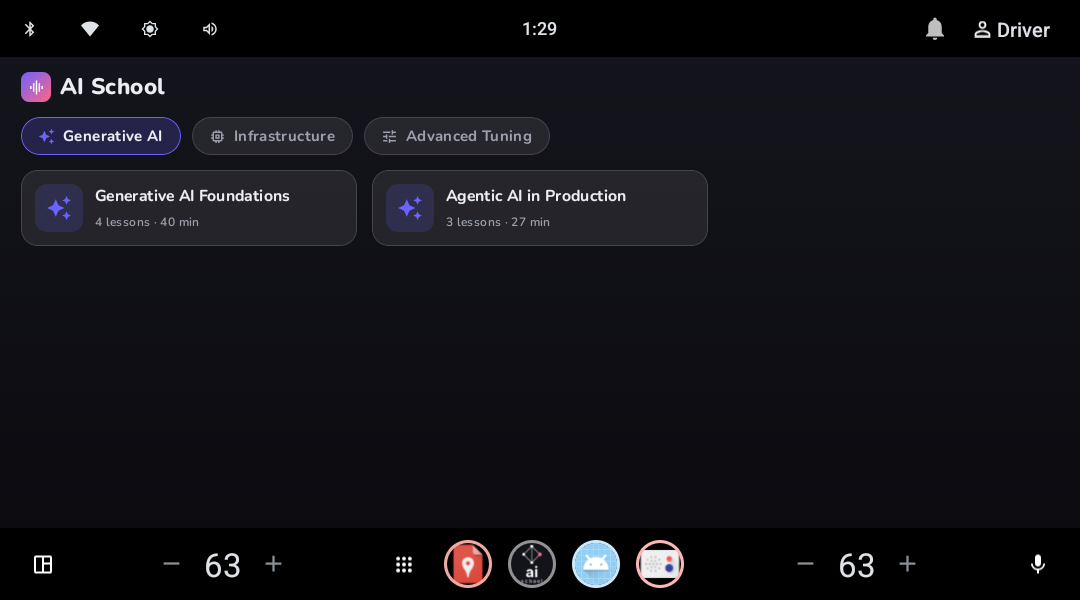
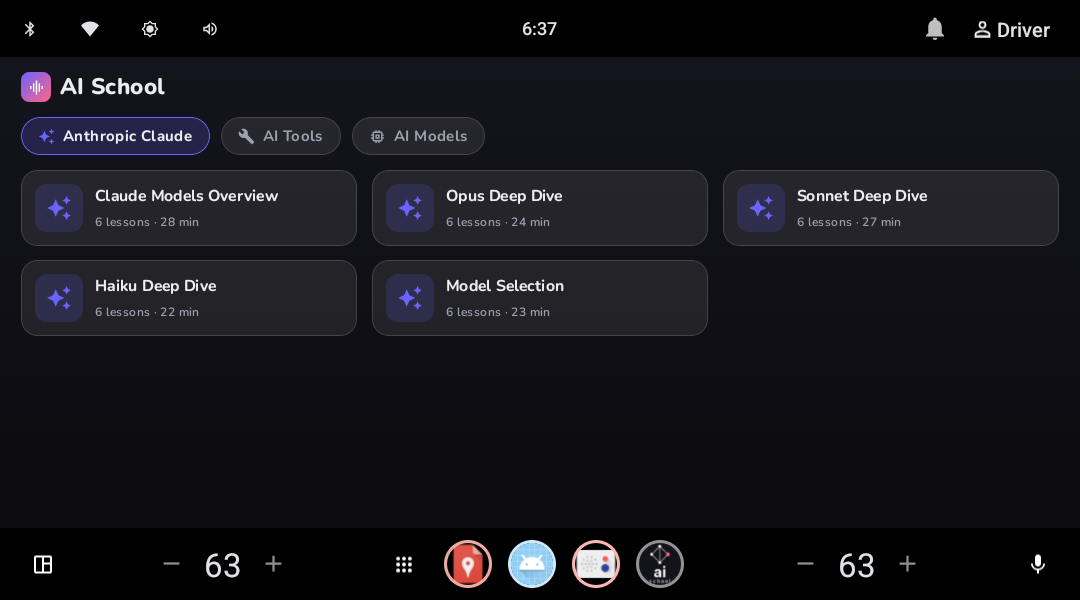
docs: update READMEs for hosted/streaming model + 8-track catalog
- Root README: replace "bundled offline narration" with the AI-pipeline +
  GitHub Pages hosted-feed streaming model; new "Content & hosting" section;
  corrected :core:demoaudio role; refreshed mobile + automotive screenshots to
  the real 8-track catalog (was fake 3-pillar content); track-first wording.
- iOS README: track-first home, streamed audio (not bundled), CarPlay streams.
- pipeline README: incremental build, publish_to_feed.py -> Pages, hosted audio.

diff --git a/README.md b/README.md
@@ -29,12 +29,15 @@ driven directly off the Vehicle HAL.
   `CarPropertyManager` callback on `WINDOW_POS` pauses playback through the media
   session the moment any window leaves the closed position, and resumes once every
   window is closed again (only if the window paused it). Systemic, not a local hack.
-- **Offline-resilient** · streaming first, bundled-narration fallback, seeded
-  catalog. The cabin never depends on connectivity.
+- **AI-generated, hosted, streaming content** · an AI content pipeline turns the
+  AI School site into audio-first lessons published to a hosted feed; the apps
+  stream it and pick up new tracks with **no app update**. A bundled catalog
+  seeds the UI offline. (See [Content &amp; hosting](#content--hosting).)
 - **OEM-themable + a VW-styled preview** · the production in-car UI is OEM-themed
-  via car-ui-lib; a Compose preview shows AI School in the VW MIB design language.
-- **Live interactive lessons on mobile** · code, sandboxes, and the real
-  published site rendered in-app.
+  via car-ui-lib; a Compose preview (now feed-driven) shows AI School in the VW
+  MIB design language.
+- **Live interactive lessons on mobile** · code, the real published site, and a
+  "read the full lesson" view rendered in-app.
 
 ## Screenshots
 
@@ -54,7 +57,7 @@ driven directly off the Vehicle HAL.
 > design (details in [docs/ARCHITECTURE.md](docs/ARCHITECTURE.md)).
 
 ### Mobile
-| Catalog | Course | Audio lesson | Interactive lesson |
+| Tracks | Courses | Lessons | Lesson player |
 |---|---|---|---|
 | ![](docs/screenshots/mobile-1-courses.png) | ![](docs/screenshots/mobile-2-course-detail.png) | ![](docs/screenshots/mobile-3-lesson-audio.png) | ![](docs/screenshots/mobile-4-lesson-interactive.png) |
 
@@ -69,21 +72,46 @@ A multi-module Gradle (Kotlin DSL) monorepo:
 |---|---|
 | `:core:model` | Domain entities, catalog, and the content-safety rules |
 | `:core:network` | Ktor client with dual-payload handling (visual vs audio-only) |
-| `:core:demoaudio` | Bundled narration + branded artwork for offline use |
-| `:app-mobile` | Jetpack Compose app (catalog, audio + interactive lessons) |
-| `:app-automotive` | Media browser service, VHAL cabin monitor, VW-styled preview |
+| `:core:demoaudio` | Branded in-car artwork (lesson audio streams from the hosted feed) |
+| `:app-mobile` | Jetpack Compose app (track -> course -> lesson, audio + read view) |
+| `:app-automotive` | Media browser service, VHAL cabin monitor, feed-driven VW preview |
 
 The full design write-up, sequence diagrams, and branding/theming notes are in
 [docs/ARCHITECTURE.md](docs/ARCHITECTURE.md); setup and run steps are in
 [docs/RUNNING.md](docs/RUNNING.md).
 
+## Content & hosting
+
+The catalog isn't hand-written. A Python **content pipeline** in [`pipeline/`](pipeline/)
+crawls the AI School site, uses Claude to rewrite each lesson into an audio-first
+spoken script (dropping code/copy-paste), synthesizes narration, and emits a
+`syllabus.json` feed plus audio. That feed is published to **GitHub Pages**
+(served from a separate `ai-school-feed` repo), and the apps **stream** it.
+
+- **Shared feed contract** · `syllabus.json` (tracks -> courses -> lessons, each
+  with an absolute audio URL). All flavors read the same feed.
+- **Resolution order** · live hosted feed -> bundled seed (offline catalog).
+  Audio streams, so the apps stay small (mobile APK ~24 MB).
+- **Add tracks with no app update** · regenerate and publish:
+
+  ```bash
+  cd pipeline
+  export ANTHROPIC_API_KEY=sk-ant-...
+  make feed TTS_BACKEND=say MODEL=claude-haiku-4-5 MAX_PATHS=8 MAX_TOPICS=5 \
+    AUDIO_URL_BASE=https://<owner>.github.io/ai-school-feed/audio   # generate (incremental)
+  python publish_to_feed.py                                         # push to the feed -> Pages
+  ```
+
+  The apps pick up the new tracks on next launch. Current catalog: 8 tracks /
+  ~240 lessons. See [`pipeline/README.md`](pipeline/README.md).
+
 ## iOS (SwiftUI)
 
 A native SwiftUI port of the mobile experience lives in [`ios/`](ios/): the same
-catalog, courses, and lessons, with an `AVPlayer` audio player (bundled offline
-narration), a `WKWebView` for interactive lessons, and the same live-feed with
-seed fallback. It also ships a **CarPlay** audio scene, the iOS analog of the
-Android Automotive flavor (audio-only browse plus Now Playing). See
+tracks, courses, and lessons, with an `AVPlayer` streaming the hosted audio, a
+`WKWebView` for the read-the-full-lesson view, and the same live-feed with seed
+fallback. It also ships a **CarPlay** audio scene, the iOS analog of the Android
+Automotive flavor (audio-only browse plus Now Playing). See
 [`ios/README.md`](ios/README.md) to build and run.
 
 ## Build

diff --git a/ios/README.md b/ios/README.md
@@ -20,18 +20,18 @@ audio-first, and code-heavy lessons open the real web page to read/copy the code
 
 ## Features
 
-- **Catalog** grouped by the three pillars (Generative AI, AI Infrastructure &
-  Hardware, Advanced LLM Tuning), with a tappable link to the AI School website.
+- **Track-first home**: the learning tracks from the live feed as cards, with
+  the AI School lockup, a tappable website link, and a Lilly Tech Systems footer.
 - **Course detail** with the lesson list and an Audio / Interactive badge per
   lesson.
 - **Lesson screen**, two modes that mirror the Android app:
   - *Audio lessons*: a branded player (`AVPlayer`) with progress and play/pause,
-    backed by **bundled narration** so it plays offline.
+    **streaming the audio from the hosted feed**.
   - *Interactive lessons*: the live topic page in a `WKWebView`, with the site's
     global chrome (nav, sidebar, cookie banner) stripped so only the lesson
     content shows.
-- **Data**: prefers the live `syllabus.json` feed, falls back to the bundled
-  `SeedSyllabus` (the contract-of-record), so it works offline.
+- **Data**: prefers the live `syllabus.json` feed, falls back to a bundled
+  `SeedSyllabus` so the catalog still shows offline (audio streams).
 - **Dark-first brand theme** matching the AI School palette.
 - **CarPlay** (audio-only, the iOS analog of the Android Automotive flavor),
   see below.
@@ -41,14 +41,13 @@ audio-first, and code-heavy lessons open the real web page to read/copy the code
 ![](docs/screenshots/07-carplay-home.png)
 
 A CarPlay audio scene mirrors the Android Automotive media service: the driver
-browses pillars then courses then lessons, every item is audio, and playback
+browses tracks then courses then lessons, every item is audio, and playback
 runs through the system Now Playing template and the remote command center
 (steering-wheel / dashboard controls). Like the car flavor on Android, only
 `isAutomotiveSafe` lessons are listed, code-heavy lessons stay on the phone.
 
-It reuses the same `SyllabusStore` (live feed then bundled then seed) and the
-same bundled-narration-first loading as the phone, so it works offline too. The
-implementation is in [`AISchool/CarPlay/`](AISchool/CarPlay):
+It reuses the same `SyllabusStore` (live feed then seed) and streams the hosted
+audio like the phone. The implementation is in [`AISchool/CarPlay/`](AISchool/CarPlay):
 `CarPlaySceneDelegate` builds the templates, `CarPlayPlaybackController` drives
 `AVPlayer` + `MPNowPlayingInfoCenter`.
 
@@ -73,7 +72,7 @@ ios/
     Theme/                    brand palette
     Views/                    CourseList, CourseDetail, Lesson, WebView
     CarPlay/                  CarPlay scene delegate + audio controller
-    Resources/                bundled narration, asset catalog, Info.plist, entitlements
+    Resources/                Inter fonts, asset catalog, bundled feed, Info.plist, entitlements
 ```
 
 ## Build and run

diff --git a/pipeline/README.md b/pipeline/README.md
@@ -65,8 +65,9 @@ It maps the site to `lessons.json` three levels deep: category = learning path,
 course = topic, lesson = each real lesson page (a topic links ~6 lesson pages of
 real content). So one topic becomes a course of ~6 audio lessons. Use
 `--max-lessons` to cap lessons per topic. Mind the scale before a full
-`build_feed.py` run: every lesson is one Claude call plus one TTS synthesis, and
-audio is bundled in the apps (keep batches ~100 lessons unless you host audio).
+`build_feed.py` run: every lesson is one Claude call plus one TTS synthesis. The
+audio is **hosted and streamed** by the apps (see Publish below), so the catalog
+can grow freely without bloating the app.
 
 ## Run
 
@@ -76,15 +77,36 @@ Adapt a single lesson (prints the classification + spoken script):
 .venv/bin/python adapt_lesson.py https://www.lillytechsystems.com/ai-prompts/index.html
 ```
 
-Build the whole feed from `lessons.json`:
+Build the whole feed from `lessons.json` (incremental: reuses lessons already in
+`out/`, only generates new ones), stamping the hosted audio URLs:
 
 ```bash
-.venv/bin/python build_feed.py
+.venv/bin/python build_feed.py \
+  --audio-url-base https://<owner>.github.io/ai-school-feed/audio
 # writes out/syllabus.json and out/audio/*.m4a
 ```
 
-Then host `out/syllabus.json` + the audio at lillytechsystems.com (the apps
-prefer the live feed) or bundle them into the apps.
+## Publish (host the feed)
+
+The apps stream from a hosted feed. `publish_to_feed.py` cleans the titles,
+copies `syllabus.json` + the referenced audio into a local clone of the feed
+repo, commits, and pushes - GitHub Pages then serves it and the apps pick up the
+new tracks on next launch (no app rebuild):
+
+```bash
+# one-time: gh repo clone <owner>/ai-school-feed ~/ai-school-feed
+.venv/bin/python publish_to_feed.py
+```
+
+Or use the Makefile end to end:
+
+```bash
+make feed TTS_BACKEND=say MODEL=claude-haiku-4-5 MAX_PATHS=8 MAX_TOPICS=5 \
+  AUDIO_URL_BASE=https://<owner>.github.io/ai-school-feed/audio
+.venv/bin/python publish_to_feed.py
+```
+
+(You can also host the `out/` files on your own domain instead of Pages.)
 
 ## Model and TTS
 
